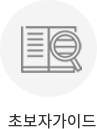
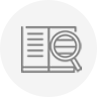
Add files via upload

Changed region(s): [[0.2165, 0.1856, 0.866, 0.7732], [0.0619, 0.866, 0.9897, 1.0]]

diff --git a/sub/web1/index.html b/sub/web1/index.html
@@ -98,8 +98,9 @@
              </ul>
         </nav>
          <ul class="search">
-            <li>검색어를 입력해주세요</li>
-            <li><a href="#">
+            <li>
+                <input type="text" placeholder="검색어를 입력해주세요"/>
+                <a href="#">
                     <img src="img/search.svg" alt="검색아이콘"/>
                  </a>
             </li>     
@@ -121,16 +122,28 @@
             <div class="box01">
                 <ul class="icon">
                     <li>
-                    <a href="#"><img src="img/mainicon1.png" alt="메인아이콘1"></a>
+                        <a href="#">
+                            <img src="img/maincon1.png" alt="메인아이콘1">
+                            <p>계좌개설</p>
+                        </a>
                     </li>
                     <li>
-                    <a href="#"><img src="img/mainicon2.png" alt="메인아이콘2"></a>
+                        <a href="#">
+                            <img src="img/maincon2.png" alt="메인아이콘2">
+                            <P>상품매수</P>
+                        </a>
                     </li>
                     <li>
-                    <a href="#"><img src="img/mainicon3.png" alt="메인아이콘3"></a>
+                        <a href="#">
+                            <img src="img/maincon3.png" alt="메인아이콘3">
+                            <p>계좌이체(IRP)</p>
+                        </a>
                     </li>
                     <li>
-                    <a href="#"><img src="img/mainicon4.png" alt="메인아이콘4"></a>
+                        <a href="#">
+                            <img src="img/maincon4.png" alt="메인아이콘4">
+                            <p>계좌이체(연금)</p>
+                        </a>
                     </li>
                 </ul>    <!-- .icon end -->
                 <ul class="button">
@@ -232,12 +245,36 @@
                 <div class="C">
                     <h4>처음이신가요?</h4>
                     <ul>
-                        <li><a href="#"><img src="img/iconR1.png" alt="가이드아이콘"/></a></li>
-                        <li><a href="#"><img src="img/iconR2.png" alt="계좌아이콘"/></a></li>
+                        <li>
+                            <a href="#">
+                                <img class="a" src="img/iconR1.png" alt="가이드아이콘"/>
+                                <img class="b" src="img/iconR1on.png" alt="가이드아이콘"/>
+                                <p>초보자가이드</P>
+                            </a>
+                        </li>
+                        <li>
+                            <a href="#">
+                                <img class="a" src="img/iconR2.png" alt="계좌아이콘"/>
+                                <img class="b" src="img/iconR2on.png" alt="계좌아이콘"/>
+                                <p>계좌개설</P>
+                            </a>
+                        </li>
                     </ul>
                     <ul>
-                        <li><a href="#"><img src="img/iconR3.png" alt="인증센터이이콘"/></a></li>
-                        <li><a href="#"><img src="img/iconR4.png" alt="다운아이콘"/></a></li>
+                        <li>
+                            <a href="#">
+                                <img class="a" src="img/iconR3.png" alt="인증센터이이콘"/>
+                                <img class="b" src="img/iconR3on.png" alt="인증센터이이콘"/>
+                                <P>인증센터</P>
+                            </a>
+                        </li>
+                            <li>
+                                <a href="#">
+                                <img class="a" src="img/iconR4.png" alt="다운아이콘"/>
+                                <img class="b" src="img/iconR4on.png" alt="다운아이콘"/>
+                                <p>프로그램</br>다운로드</P>
+                            </a>
+                        </li>
                     </ul>
                 </div><!-- .C end -->
             </div> <!-- .box01 end -->

diff --git a/sub/web1/css/main.css b/sub/web1/css/main.css
@@ -47,6 +47,14 @@ header nav ul .depth01{
    padding-left:80px;
    position: relative;
 }
+header nav ul .depth01:hover>a{
+    color:  #80624c;
+    padding-bottom: 5px;
+    border-bottom: 2px solid #80624c;
+    
+
+    
+}
 header nav ul .depth01:hover .depth02{
     position: absolute;
     top : 60px;
@@ -72,6 +80,12 @@ header nav ul .depth01 .depth02{
 }
 header nav ul .depth01 .depth02 div{
     padding: 0 20px;
+}
+header nav ul .depth01 .depth02 div li a:hover{
+    color : #80624c
+}
+header nav ul .depth01 .depth03 div li a:hover{
+    color : #80624c
 }
 header nav ul .depth01 .depth02 div:nth-of-type(2){
     background-color:rgba(128, 98, 76, 0.3);
@@ -144,15 +158,27 @@ header nav ul .depth01 .depth03 div:nth-of-type(1){
 header .search{
     width: 300px;
     height: 50px;
-    border-bottom: 1px solid #333;
     display: flex;
     justify-content: space-between;
     position: relative;
     left:-85px;
 }
+header .search li input[type=text]{
+    border: 0;
+    border-bottom: 1px solid #000000;
+    width: 300px;
+    height: 30px;
+    font-family: 'Noto Sans KR';
+    font-size: 16px;
+    font-weight: 700;
+    opacity: 100%;
+    color: #000000;
+    outline: none;
+}
 header .search li  a img{
-    position: relative;
-    top: 5px
+    position: absolute;
+    bottom: 10px;
+    right: 0px;
 }
 header .search li:nth-of-type(1){
     font-size: 16px;
@@ -166,9 +192,12 @@ header .right_menu{
     left: -240px;
 }
 header .right_menu li a{
-    padding: 0 13px;
+    padding-left: 20px;
     font-size: 16px;
     font-weight: 700;
+}
+header .right_menu li a:hover{
+    color:#80624c
 }
 /* ***********.main******************** */
 .main{
@@ -216,12 +245,33 @@ header .right_menu li a{
     align-items: center;
 }
 .main .cont02 .box01 .icon li {
-    padding: 0 38px 0 0;
+    
 }
-.main .cont02 .box01 .icon li:nth-of-type(4){
+.main .cont02 .box01 .icon li a{
+    display: block;
+    width: 100px;
+    top: 0;
+    left: -20px;
     position: relative;
-    top: 3px;
+    margin-right: 15px;
 }
+
+.main .cont02 .box01 .icon li a img{
+    width: 70px;
+    height: 70px;
+    object-fit: cover;
+    display: block;
+    margin: 0 auto;
+    
+    
+}
+.main .cont02 .box01 .icon li a p{
+    font-size: 16px;
+    font-weight: 400;
+    color: #343434;
+    text-align: center;
+}
+
 .main .cont02 .box01 .button{
     display: flex;
     justify-content: center;
@@ -354,6 +404,29 @@ header .right_menu li a{
     justify-content: space-between;
     margin: 0 45px 27px;
 }
+.main02 .cont01 .box01 .C ul li a img{
+    display: block;
+}
+.main02 .cont01 .box01 .C ul li a .b{
+    display: none;
+}
+.main02 .cont01 .box01 .C ul li a:hover .a{
+    display: none;
+}
+.main02 .cont01 .box01 .C ul li a:hover .b{
+    display: block;
+}
+
+.main02 .cont01 .box01 .C ul li a p{
+    font-size: 16px;
+    font-weight: 400;
+    color: #343434;
+    text-align: center;
+    margin-top: 16px;
+}
+.main02 .cont01 .box01 .C ul li a:hover p{
+    color: #80624c;
+}
 
 /* *************.main03************* */
 .main03{
@@ -473,25 +546,27 @@ footer .cont01 .box01 select:nth-of-type(1){
     width: 220px;
 }
 footer .cont01 .box01 select{
-    padding-left: 10px;
+    padding-left: 13px;
     border-radius: 10px;
     color: #343434;
     opacity: 90%;
-    font-size: 18px;
+    font-size: 14px;
     font-weight: 400;
     font-family: 'Noto Sans KR';
 }
 footer .cont01 .box01 select option{
     font-family: 'Noto Sans KR';
-    font-size: 18px;
+    font-size: 14px;
     font-weight: 400;
     color: #343434;
     opacity: 70%;
+    margin: 10px 0;
+    
 }
 footer .cont01 .box01 select option a{
     color: #343434;
     opacity: 90%;
-    font-size: 18px;
+    font-size: 16px;
     font-weight: 400;
 }
 
@@ -507,7 +582,7 @@ footer .cont01 .box02 ul {
 footer .cont01 .box02 ul li a{
     opacity: 70%;
     margin-right: 35px;
-    font-size: 15px
+    font-size: 14px
 }
 
 /* ***************footer .cont02******************************** */
